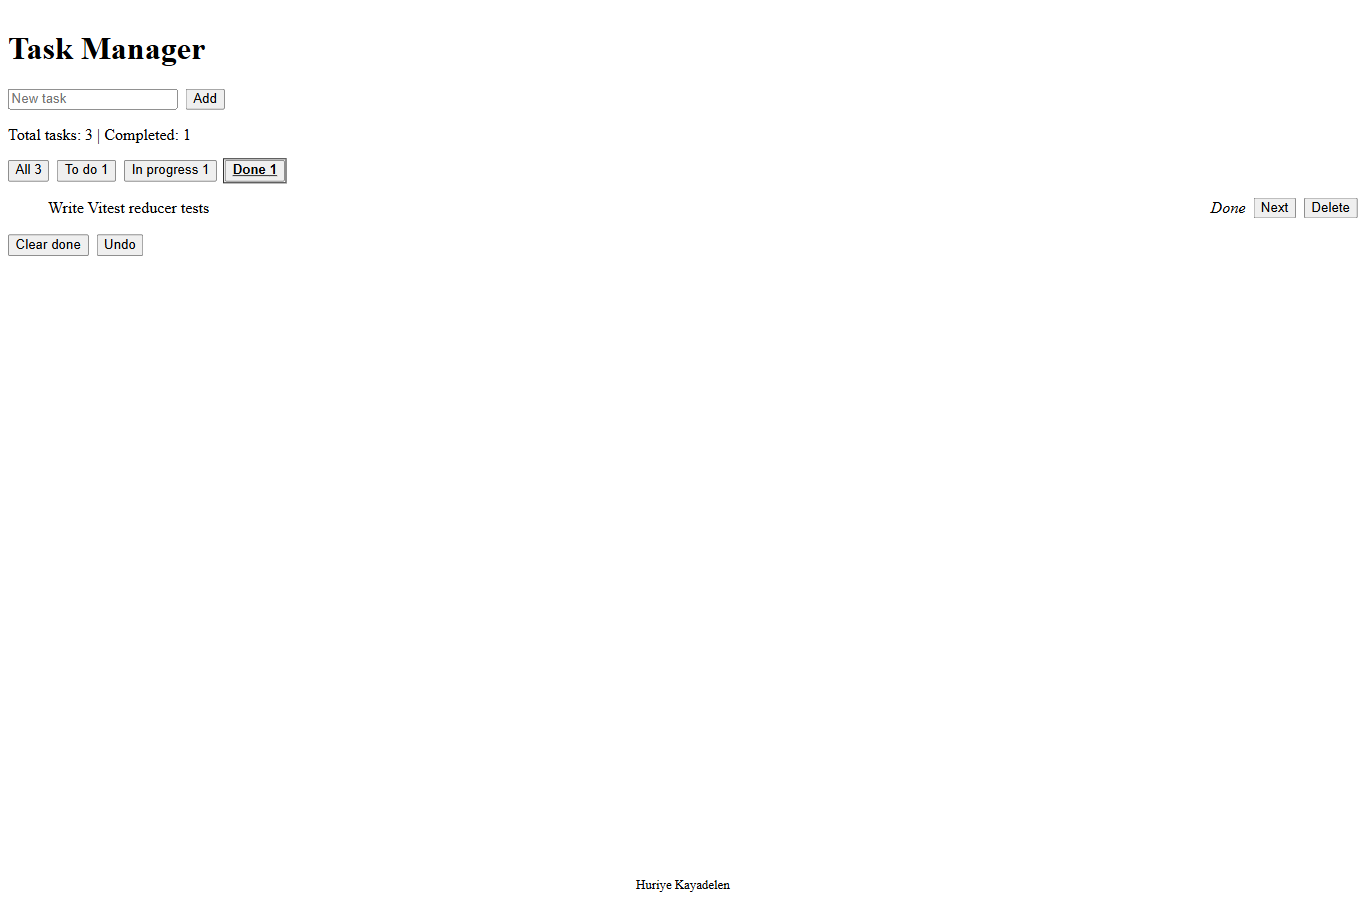
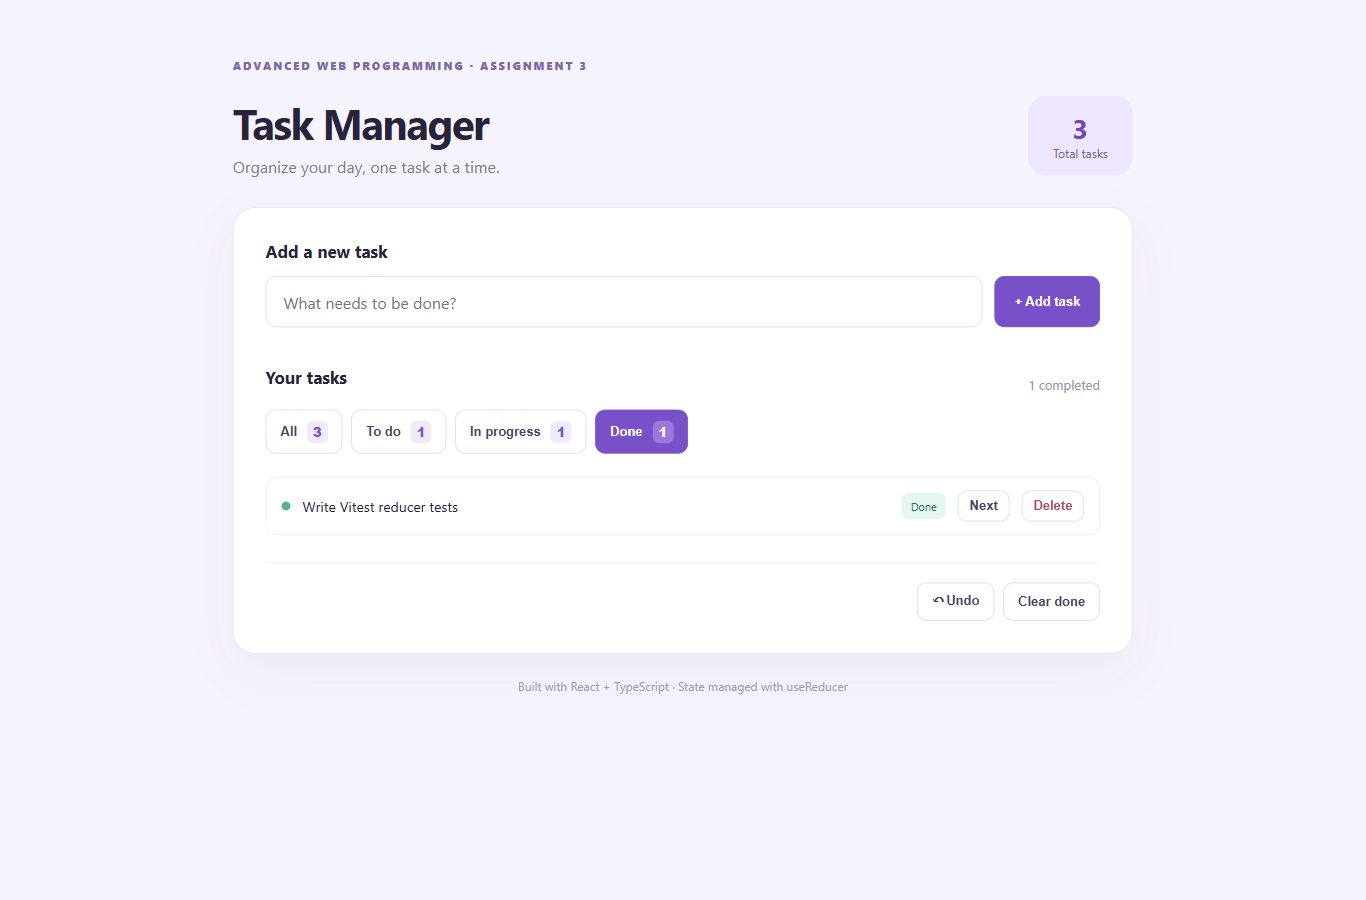
revert: restore exact c2402b6 purple theme and screenshots

diff --git a/src/style.css b/src/style.css
@@ -1,34 +1,2 @@
-/* starter.zip has no CSS: retain native fonts, colors, controls and body margin.
-   TaskRow's flex layout and 8px gap come directly from the starter component.
-   The remaining layout supports filters, the footer and narrow screens. */
-#root {
-  min-height: calc(100svh - 16px);
-  display: flex;
-  flex-direction: column;
-}
-main { flex: 1; min-width: 0; }
-.add-form, .filters, .actions {
-  display: flex;
-  flex-wrap: wrap;
-  gap: 8px;
-}
-.add-form input { min-width: 0; max-width: 100%; }
-.filter-button.selected {
-  font-weight: bold;
-  text-decoration: underline;
-  outline: 1px solid currentColor;
-  outline-offset: 1px;
-}
-.task-row {
-  display: flex;
-  gap: 8px;
-  align-items: center;
-  margin-bottom: 8px;
-}
-.task-title { flex: 1; min-width: 0; overflow-wrap: anywhere; }
-.status-pill { white-space: nowrap; }
-footer { margin-top: 16px; text-align: center; font-size: 0.8rem; }
-@media (max-width: 480px) {
-  .task-row { flex-wrap: wrap; }
-  .task-title { flex-basis: 100%; }
-}
+*{box-sizing:border-box}body{margin:0;background:#f5f3fc;color:#28233b;font-family:Inter,ui-sans-serif,system-ui,-apple-system,Segoe UI,sans-serif}.app-shell{width:min(900px,calc(100% - 48px));margin:58px auto}.eyebrow{font-size:11px;letter-spacing:2px;font-weight:800;color:#7c68a9}header{display:flex;align-items:center;justify-content:space-between;margin:22px 0 30px}h1{font-size:42px;letter-spacing:-1.5px;margin:0 0 5px}header p{margin:0;color:#807a8d}.total{background:#ede6fd;border-radius:18px;padding:14px 25px;text-align:center;display:flex;flex-direction:column}.total strong{font-size:27px;color:#7044c3}.total span{font-size:12px;color:#75678b}.panel{background:white;border:1px solid #e9e3f5;box-shadow:0 18px 50px #41306f0b;border-radius:22px;padding:32px}h2{font-size:17px;margin:0 0 14px}.add-form{display:flex;gap:12px;margin-bottom:38px}input{flex:1;min-width:0;padding:14px 17px;border:1px solid #ddd7ed;border-radius:11px;font:inherit;outline-color:#8b67d0}button{border:1px solid #ddd7ed;background:#fff;color:#4c4267;padding:10px 14px;border-radius:10px;font-weight:650;cursor:pointer;font-size:13px}button:hover:not(:disabled){border-color:#9679d8;background:#f8f4ff}button:disabled{cursor:not-allowed;opacity:.4}.primary{background:#7851c9;color:white;border-color:#7851c9;padding:12px 19px}.primary:hover:not(:disabled){background:#6842ba;color:white}.section-header{display:flex;justify-content:space-between;align-items:center}.section-header span{color:#988fa7;font-size:13px}.filters{display:flex;gap:9px;flex-wrap:wrap;margin:8px 0 23px}.filter-button{display:flex;align-items:center;gap:10px}.filter-button.selected{color:white;background:#7851c9;border-color:#7851c9}.count{font-weight:800;border-radius:6px;padding:2px 6px;background:#f0eafb;color:#7851c9}.selected .count{background:#9977dd;color:white}.task-list{padding:0;margin:0;list-style:none;display:grid;gap:10px}.task-row{display:flex;align-items:center;gap:12px;border:1px solid #eeeaf4;padding:13px 15px;border-radius:12px}.status-dot{width:9px;height:9px;border-radius:100%;flex-shrink:0}.status-dot.todo{background:#d6ad51}.status-dot.in-progress{background:#5b9cdd}.status-dot.done{background:#55b58b}.task-title{flex:1;font-size:14px;overflow-wrap:anywhere}.status-pill{font-size:11px;border-radius:7px;padding:6px 9px;white-space:nowrap}.status-pill.todo{background:#fff5df;color:#936f27}.status-pill.in-progress{background:#eaf3ff;color:#286da3}.status-pill.done{background:#e6f7ef;color:#23744c}.task-row button{padding:7px 11px}.task-row .delete{color:#ac4c63}.actions{margin-top:27px;padding-top:19px;border-top:1px solid #f0edf6;display:flex;justify-content:flex-end;gap:9px}.empty{padding:55px 15px;text-align:center;border:1px dashed #e5deee;border-radius:14px;color:#635675;font-weight:650}.empty span{display:block;margin-top:8px;font-size:12px;color:#a49aad;font-weight:400}footer{text-align:center;font-size:12px;color:#a29aaf;margin-top:25px}@media(max-width:650px){.app-shell{width:calc(100% - 24px);margin:25px auto}.panel{padding:19px}header{align-items:flex-start}h1{font-size:30px}.total{padding:10px}.add-form{flex-wrap:wrap}.add-form input{flex-basis:100%}.task-row{flex-wrap:wrap}.task-title{flex-basis:calc(100% - 30px)}.status-pill{margin-right:auto}}
+.filter-button.selected:hover:not(:disabled){background:#6842ba;border-color:#6842ba;color:white}button:focus-visible,input:focus-visible{outline:3px solid #9164d8;outline-offset:3px}

diff --git a/src/App.tsx b/src/App.tsx
@@ -20,8 +20,8 @@ function AddForm({ dispatch }: { dispatch: Dispatch<Action> }) {
   }
   return (
     <form onSubmit={addTask} className="add-form">
-      <input name="title" aria-label="New task" placeholder="New task" maxLength={120} required />
-      <button type="submit">Add</button>
+      <input name="title" aria-label="New task" placeholder="What needs to be done?" maxLength={120} required />
+      <button type="submit" className="primary">+ Add task</button>
     </form>
   )
 }
@@ -43,7 +43,7 @@ function FilterBar({ filter, counts, dispatch }: {
 }
 
 function TaskList({ tasks, dispatch }: { tasks: Task[]; dispatch: Dispatch<Action> }) {
-  if (tasks.length === 0) return <p className="empty">No tasks here. Try another filter or add a task.</p>
+  if (tasks.length === 0) return <div className="empty">No tasks here.<span>Try another filter or add a task.</span></div>
   return (
     <ul className="task-list">
       {tasks.map((task) => (
@@ -60,19 +60,24 @@ export default function App() {
   const counts = countByFilter(state.tasks)
   const visible = filterTasks(state.tasks, state.filter)
   return (
-    <>
-      <main>
-        <h1>Task Manager</h1>
+    <main className="app-shell">
+      <div className="eyebrow">ADVANCED WEB PROGRAMMING · ASSIGNMENT 3</div>
+      <header>
+        <div><h1>Task Manager</h1><p>Organize your day, one task at a time.</p></div>
+        <div className="total"><strong>{counts.all}</strong><span>Total tasks</span></div>
+      </header>
+      <section className="panel" aria-label="Task manager">
+        <h2>Add a new task</h2>
         <AddForm dispatch={dispatch} />
-        <p>Total tasks: {counts.all} | Completed: {counts.done}</p>
+        <div className="section-header"><h2>Your tasks</h2><span>{counts.done} completed</span></div>
         <FilterBar filter={state.filter} counts={counts} dispatch={dispatch} />
         <TaskList tasks={visible} dispatch={dispatch} />
         <div className="actions">
+          <button type="button" onClick={() => dispatch({ type: 'undo' })} disabled={state.past.length === 0}>↶ Undo</button>
           <button type="button" onClick={() => dispatch({ type: 'clearDone' })} disabled={counts.done === 0}>Clear done</button>
-          <button type="button" onClick={() => dispatch({ type: 'undo' })} disabled={state.past.length === 0}>Undo</button>
         </div>
-      </main>
-      <footer>Huriye Kayadelen</footer>
-    </>
+      </section>
+      <footer>Built with React + TypeScript · State managed with useReducer</footer>
+    </main>
   )
 }

diff --git a/src/TaskRow.tsx b/src/TaskRow.tsx
@@ -7,10 +7,11 @@ const STATUS_LABELS: Record<Status, string> = {
 export default function TaskRow({ task, onNext, onDelete }: TaskRowProps) {
   return (
     <li className="task-row">
+      <span className={`status-dot ${task.status}`} aria-hidden="true" />
       <span className="task-title">{task.title}</span>
-      <em className="status-pill">{STATUS_LABELS[task.status]}</em>
+      <span className={`status-pill ${task.status}`}>{STATUS_LABELS[task.status]}</span>
       <button type="button" onClick={onNext} aria-label={`Next status for ${task.title}`}>Next</button>
-      <button type="button" onClick={onDelete} aria-label={`Delete ${task.title}`}>Delete</button>
+      <button type="button" className="delete" onClick={onDelete} aria-label={`Delete ${task.title}`}>Delete</button>
     </li>
   )
 }

diff --git a/README.md b/README.md
@@ -48,7 +48,7 @@ Test Files  4 passed (4)
      Tests  40 passed (40)
 ```
 
-Final validation on 14 November 2026: npm run build, npm run lint and npm test passed. With Vite running, npm run browser checks Add, the complete Next cycle, Delete, all four filters, counts, Clear done, Undo for every edit type, consecutive Undo, whitespace rejection and mobile overflow in visible Microsoft Edge. The browser check refreshes the four PNGs through real UI interactions and does not generate report files. It verifies the name footer and checks responsive widths 650, 390 and 320 pixels.
+Final validation on 14 November 2026: npm run build, npm run lint and npm test passed. With Vite running, npm run browser checks Add, the complete Next cycle, Delete, all four filters, counts, Clear done, Undo for every edit type, consecutive Undo, whitespace rejection and mobile overflow in visible Microsoft Edge. The browser check preserves the four original PNGs and does not generate report files.
 
 ## Bonus 3: Explain your reducer
 
@@ -74,13 +74,9 @@ git clone assignment3-history.bundle task-manager
 
 Existing Git history is preserved without rewriting commits. Local history, ignore rules, four screenshots, README and the real hosted repository link are included. The repository is public and can be viewed without collaborator access.
 
-## Starter appearance
-
-The supplied starter.zip contains no CSS files or green color definitions. Its App.tsx uses a plain heading, input, Add button and task list; TaskRow.tsx uses flex with an 8px gap, a flexible title, italic status and native Next/Delete buttons. The application follows those actual defaults: browser fonts, native controls and an undecorated page. No custom palette is attributed to the teacher. Minimal extra CSS handles filter selection, narrow screens and the small centered Huriye Kayadelen footer. Required filters, live counts, Clear done and Undo extend the starter; reducer behavior and all 40 tests are retained.
-
 ## Screenshots
 
-Four real Edge captures are included: screenshots/all.png, todo.png, in-progress.png and done.png. The three tasks are Review reducer lecture notes (To do), Build Task Manager interface (In progress) and Write Vitest reducer tests (Done). Counts are 3 / 1 / 1 / 1. The four PNGs are captured from the current starter-style UI. The browser script checks exact titles, statuses, counts, selected filters and the footer before capturing each view.
+Four real Edge captures are included: screenshots/all.png, todo.png, in-progress.png and done.png. The three tasks are Review reducer lecture notes (To do), Build Task Manager interface (In progress) and Write Vitest reducer tests (Done). Counts are 3 / 1 / 1 / 1. These four PNGs are preserved unchanged. The browser script checks the same titles, statuses and selected filters without overwriting them.
 
 ## Submission
 

diff --git a/FINAL_REVIEW.md b/FINAL_REVIEW.md
@@ -32,16 +32,12 @@ Checked against the R1-R7 and four-bonus checklist recorded in this project, plu
 
 README begins with full name and student number. The first line of src/taskReducer.ts contains the same identity. GitHub publication was subsequently authorized. Repository: https://github.com/Hurulayn0/assignment3-task-manager (public). The existing history was preserved without rewriting commits.
 
-## Appearance source
-
-Rechecked C:\Users\USER\Downloads\starter.zip: no CSS or green theme is present. App.tsx supplies native HTML; TaskRow.tsx supplies flex, gap 8, centered alignment, flexible title and italic status. The implementation restores that plain appearance and adds only layout for the required filters, counters, actions, responsive wrapping and small centered name footer. No teacher palette was invented. Screenshots are newly captured from this version.
-
 ## Validation and delivery
 
 - npm run build: PASS, standard TypeScript and Vite production build.
 - npm run lint: PASS.
 - npm test: PASS, all 40 tests across four files, unchanged by cleanup.
 - npm run browser: PASS, visible Edge check against http://localhost:5173/; Add, full status cycle, Delete, four filters, counts, Clear done, Undo, blank input and mobile overflow.
-- Four real Edge PNGs refreshed for the starter-style UI: all.png, todo.png, in-progress.png, done.png.
+- Four original PNGs retained unchanged: all.png, todo.png, in-progress.png, done.png.
 
 The final ZIP is checked for required source, tests, configuration, package files, README, four screenshots and complete Git bundle. node_modules, dist, generated HTML, audit/verification JSON, raw test output and this local review note are excluded. Unused starter CSS/images and standalone build support were removed. No test, reducer or application behavior was removed. StudyBuddy was not modified.
